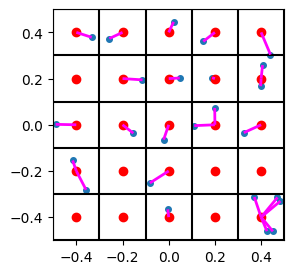
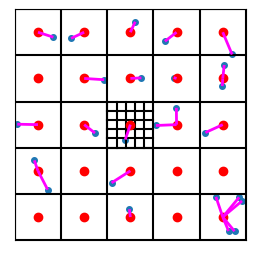
Built site for gh-pages

Changed region(s): [[0.0275, 0.0275, 0.9882, 0.9608]]

diff --git a/posts/2023-06-13-RVQ.html b/posts/2023-06-13-RVQ.html
@@ -1050,8 +1050,8 @@ if (outputEl) {{
 <div class="cell">
 <details>
 <summary>Show the code</summary>
-<div class="sourceCode cell-code" id="cb15"><pre class="sourceCode python code-with-copy"><code class="sourceCode python"><span id="cb15-1"><a href="#cb15-1" aria-hidden="true" tabindex="-1"></a>plot_data_grid_with_resids(data, n_grid<span class="op">=</span>n_grid, show_next_level_grid<span class="op">=</span><span class="va">False</span>, show_centroids<span class="op">=</span><span class="va">True</span>, </span>
-<span id="cb15-2"><a href="#cb15-2" aria-hidden="true" tabindex="-1"></a>                           hide_tick_labels<span class="op">=</span><span class="va">False</span>, codebook<span class="op">=</span>codebook, show_resids<span class="op">=</span><span class="va">True</span>)</span></code><button title="Copy to Clipboard" class="code-copy-button"><i class="bi"></i></button></pre></div>
+<div class="sourceCode cell-code" id="cb15"><pre class="sourceCode python code-with-copy"><code class="sourceCode python"><span id="cb15-1"><a href="#cb15-1" aria-hidden="true" tabindex="-1"></a>plot_data_grid_with_resids(data, n_grid<span class="op">=</span>n_grid, show_next_level_grid<span class="op">=</span><span class="va">True</span>, show_centroids<span class="op">=</span><span class="va">True</span>, </span>
+<span id="cb15-2"><a href="#cb15-2" aria-hidden="true" tabindex="-1"></a>                           hide_tick_labels<span class="op">=</span><span class="va">True</span>, codebook<span class="op">=</span>codebook, show_resids<span class="op">=</span><span class="va">True</span>)</span></code><button title="Copy to Clipboard" class="code-copy-button"><i class="bi"></i></button></pre></div>
 </details>
 <div class="cell-output cell-output-display">
 <div id="fig-rvq-resids" class="quarto-figure quarto-figure-center anchored">

diff --git a/index.html b/index.html
@@ -176,7 +176,7 @@ ul.task-list li input[type="checkbox"] {
 
 <div class="quarto-listing quarto-listing-container-default" id="listing-listing">
 <div class="list quarto-listing-default">
-<div class="quarto-post image-right" data-index="0" data-categories="compression,ssl" data-listing-date-sort="1686632400000" data-listing-file-modified-sort="1686625724067" data-listing-date-modified-sort="NaN" data-listing-reading-time-sort="11">
+<div class="quarto-post image-right" data-index="0" data-categories="compression,ssl" data-listing-date-sort="1686632400000" data-listing-file-modified-sort="1686626374964" data-listing-date-modified-sort="NaN" data-listing-reading-time-sort="11">
 <div class="thumbnail">
 <p><a href="./posts/2023-06-13-RVQ.html"> <img src="./posts/images/rvq_grid.png" class="thumbnail-image"> </a></p>
 </div>
